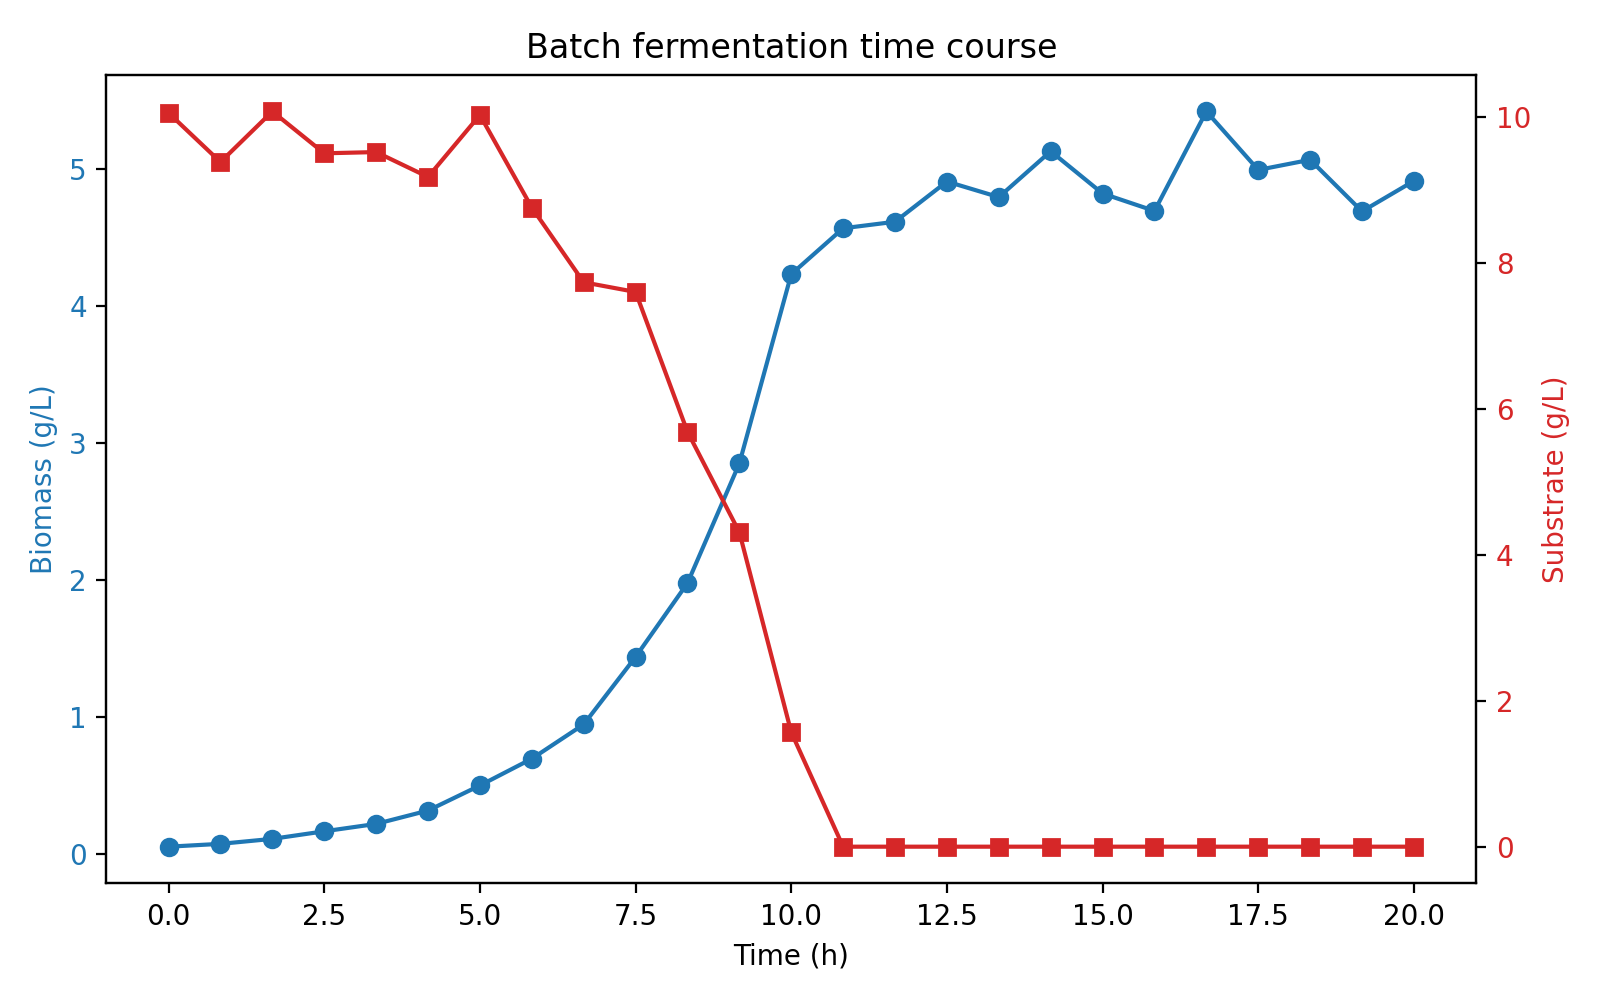
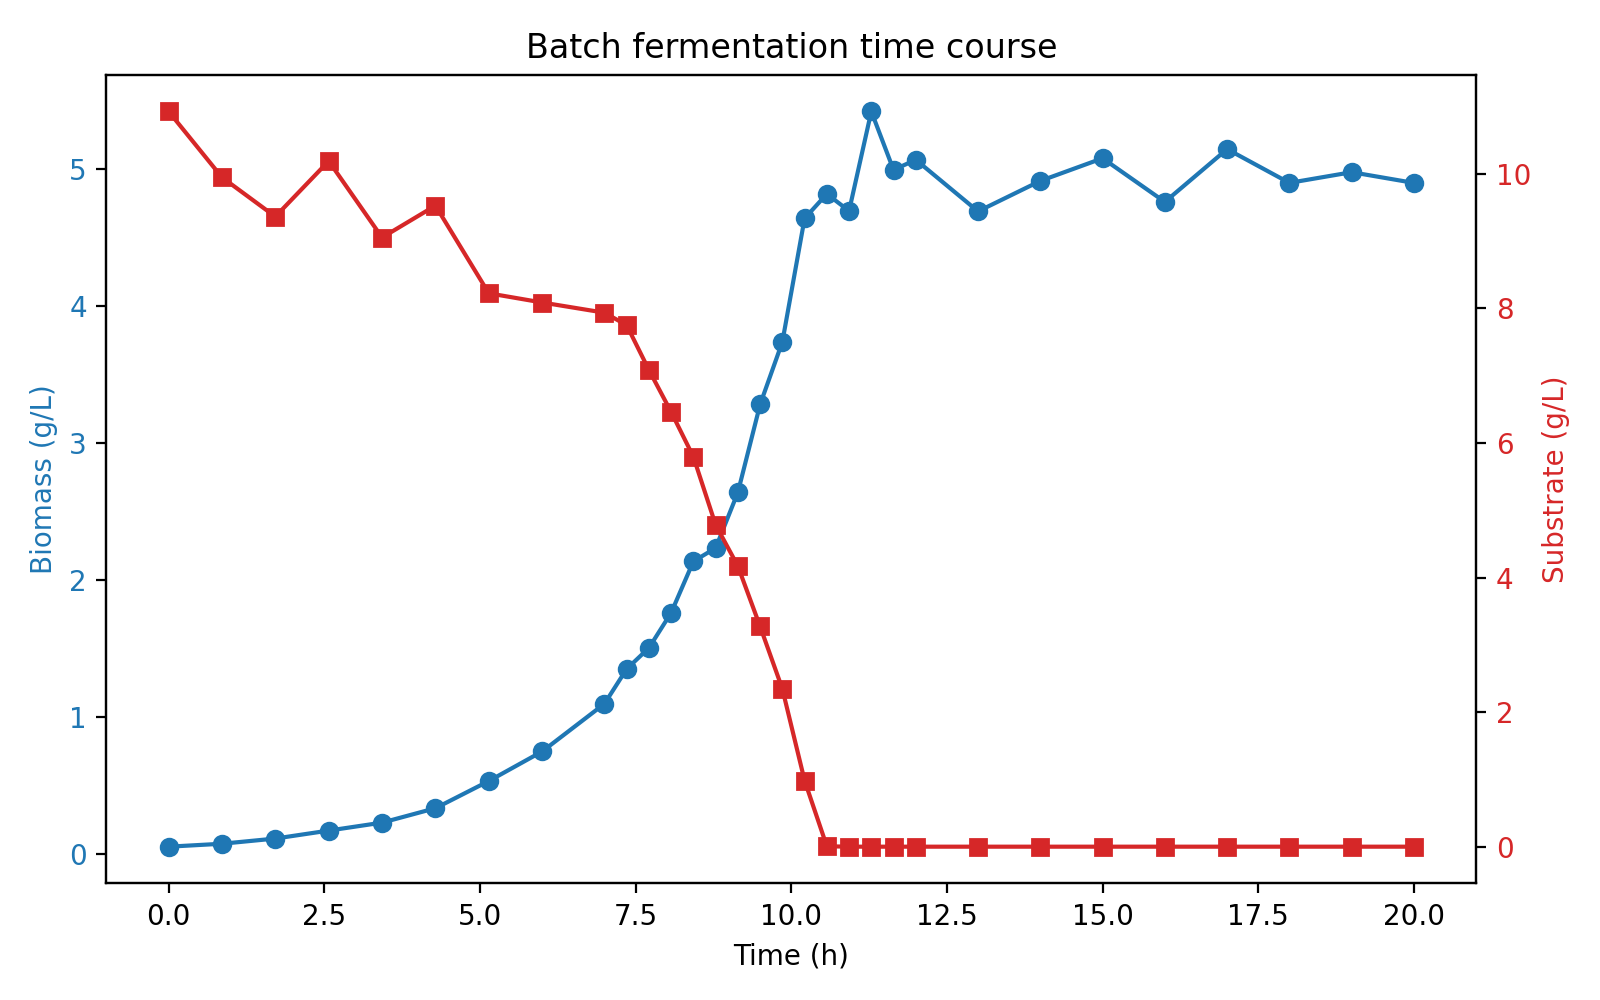
update

diff --git a/src/model.py b/src/model.py
@@ -35,12 +35,15 @@ def monod_ode(t, y, mu_max, Ks, Yxs):
     mu = mu_max * S / (Ks + S) if S > 0 else 0
     dXdt = mu * X
     dSdt = -(1 / Yxs) * mu * X
-    return [dXdt, dSdt]
-
+    return [dXdt, dSdt] 
 
 def simulate_monod(params, t_eval, X0, S0):
     """
     Forward-simulate the Monod model and return predicted [X, S] at t_eval.
+
+    Returns arrays of NaN if the ODE solver fails — this allows downstream
+    optimization routines to detect and avoid pathological parameter sets
+    without crashing.
 
     Parameters
     ----------
@@ -104,7 +107,7 @@ def haldane_ode(t, y, mu_max, Ks, Ki, Yxs):
     y : [X, S]
     mu_max : float, max specific growth rate (1/h)
     Ks : float, half-saturation constant (g/L)
-    Ki : float, substrate inhibition constant (g/L). Larger = less inhibition.
+    Ki : float, substrate inhibition constant (g/L). Larger => less inhibition.
     Yxs : float, biomass yield (g/g)
     """
     X, S = y

diff --git a/README.md b/README.md
@@ -48,6 +48,22 @@ jupyter notebook
 
 Then open notebooks in order 01 → 04.
 
+## Parameter rationale
+
+The ground-truth parameters approximate a *Saccharomyces cerevisiae* aerobic
+batch fermentation on glucose:
+
+- μ_max = 0.45 1/h corresponds to a doubling time of ~1.5 h, typical for
+  yeast on glucose under aerobic conditions.
+- Ks = 0.12 g/L is in the standard range for yeast on glucose (literature: 0.1–1 g/L).
+- Yxs = 0.50 g/g reflects aerobic respiratory growth (theoretical maximum ~0.55 g/g).
+- S0 = 10 g/L (1% glucose) is a standard laboratory fermentation substrate
+  concentration.
+- X0 = 0.05 g/L corresponds to a typical inoculum OD600 ≈ 0.1.
+
+The ratio S0/Ks ≈ 83 is realistic for industrial fermentations but is also
+what creates the Ks identifiability challenge demonstrated in this project.
+
 ## Results
 
 ### Parameter recovery (Monod)
